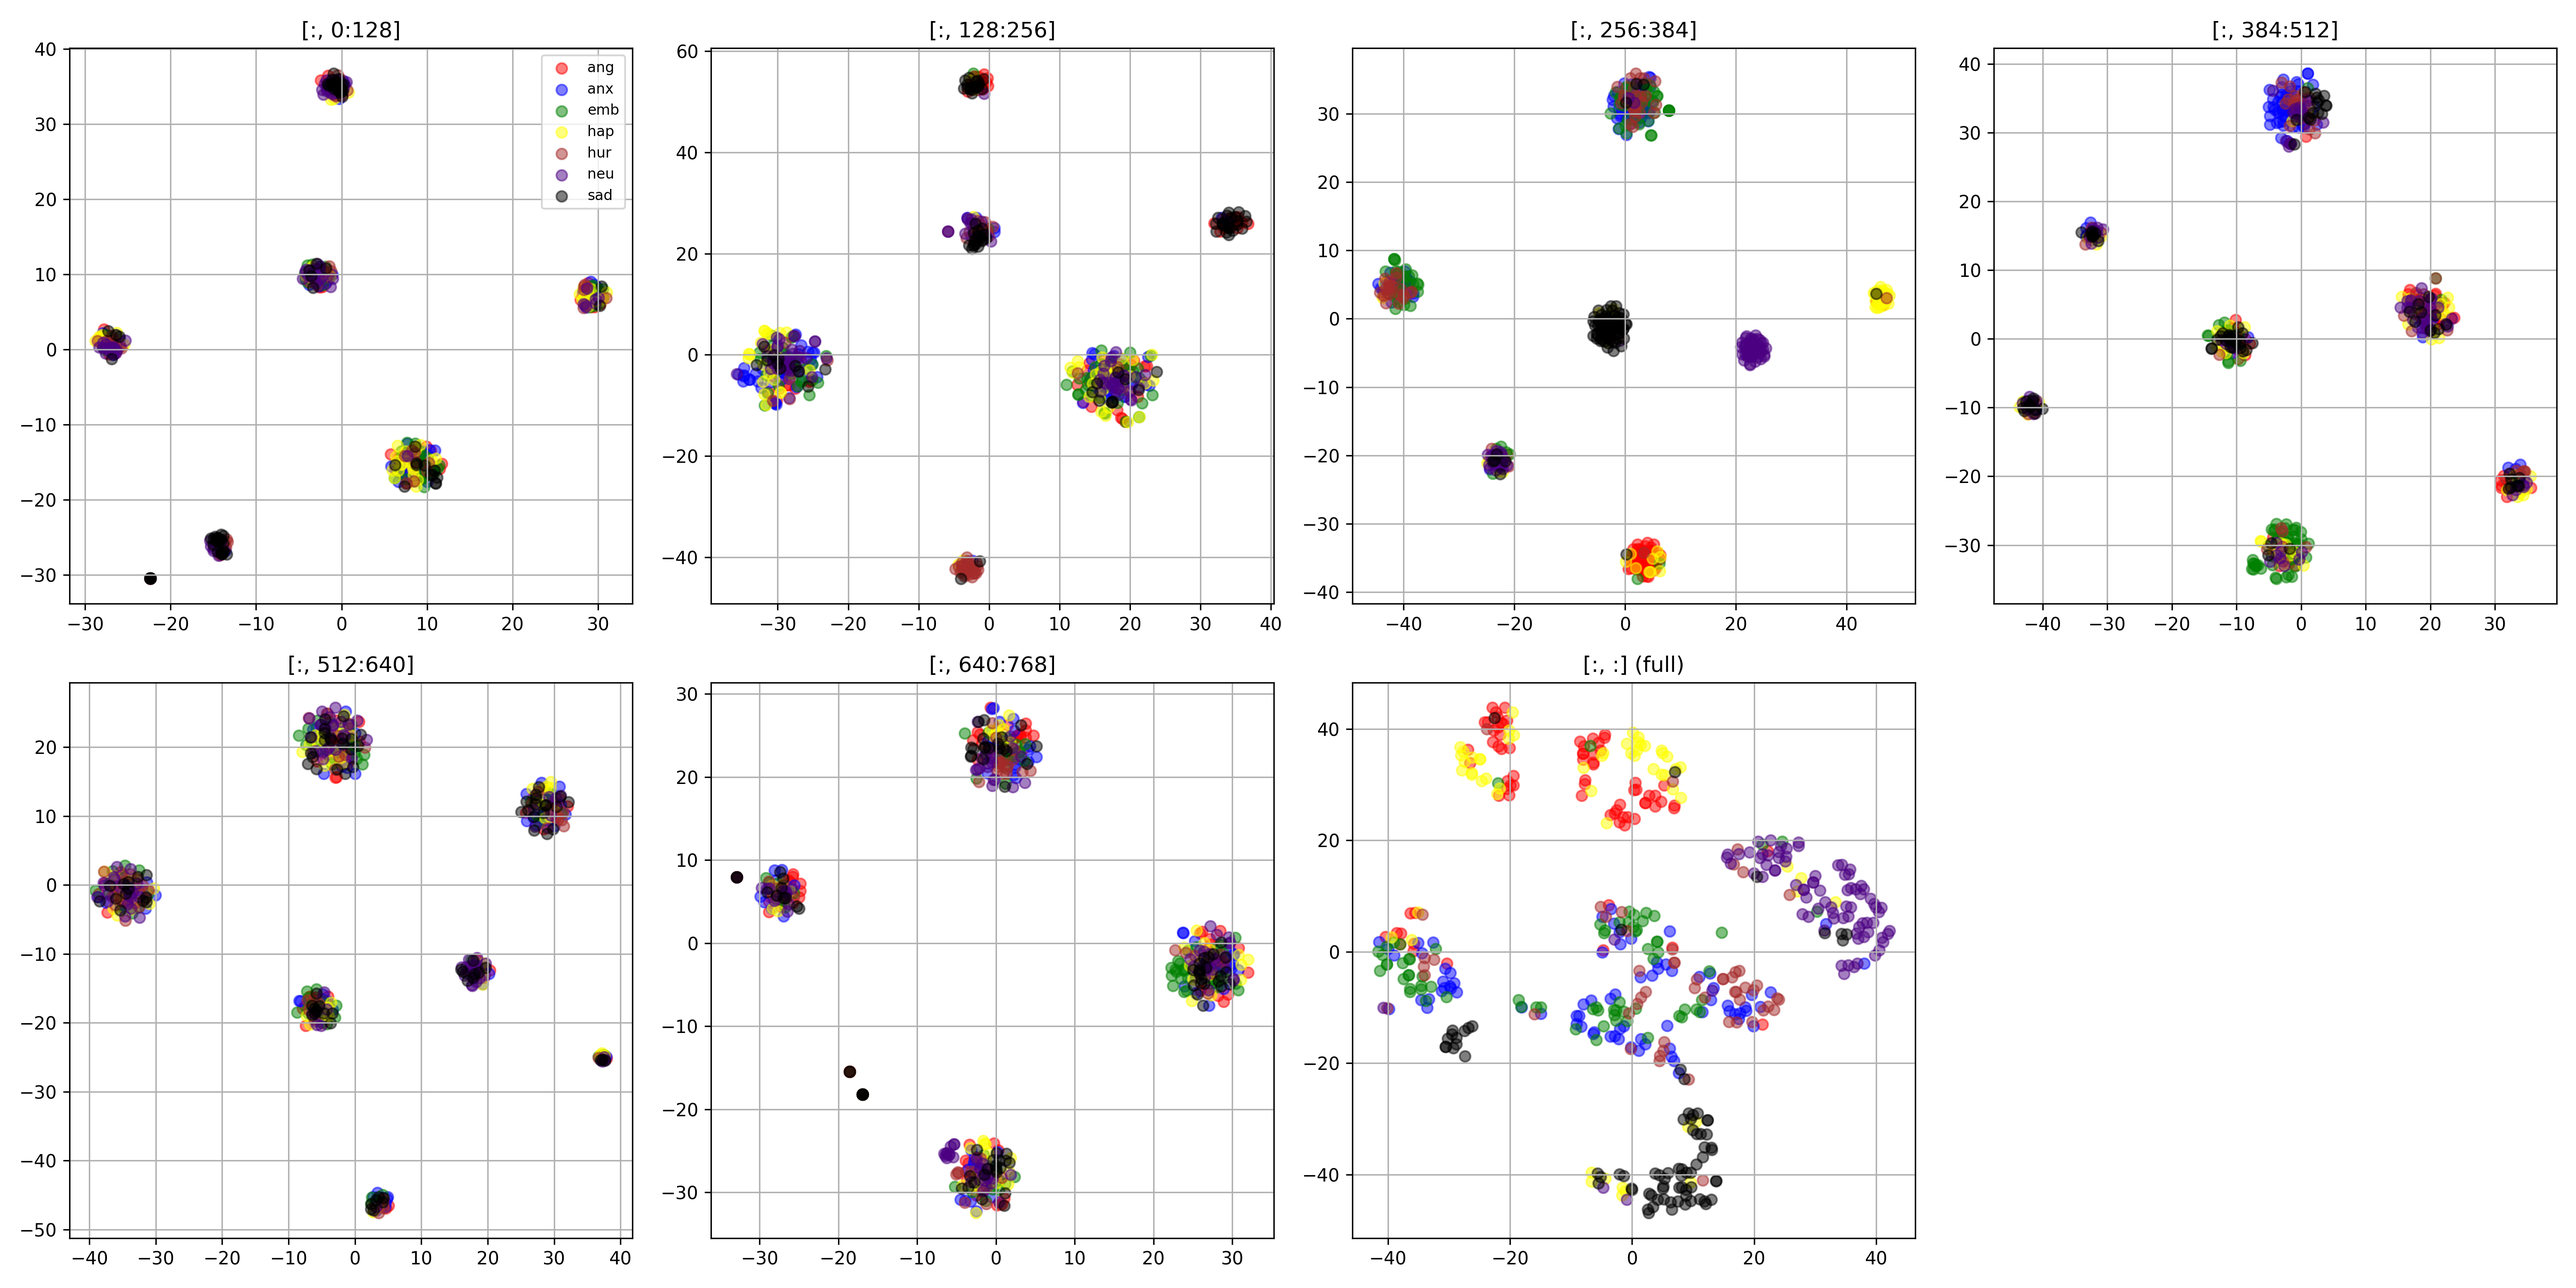
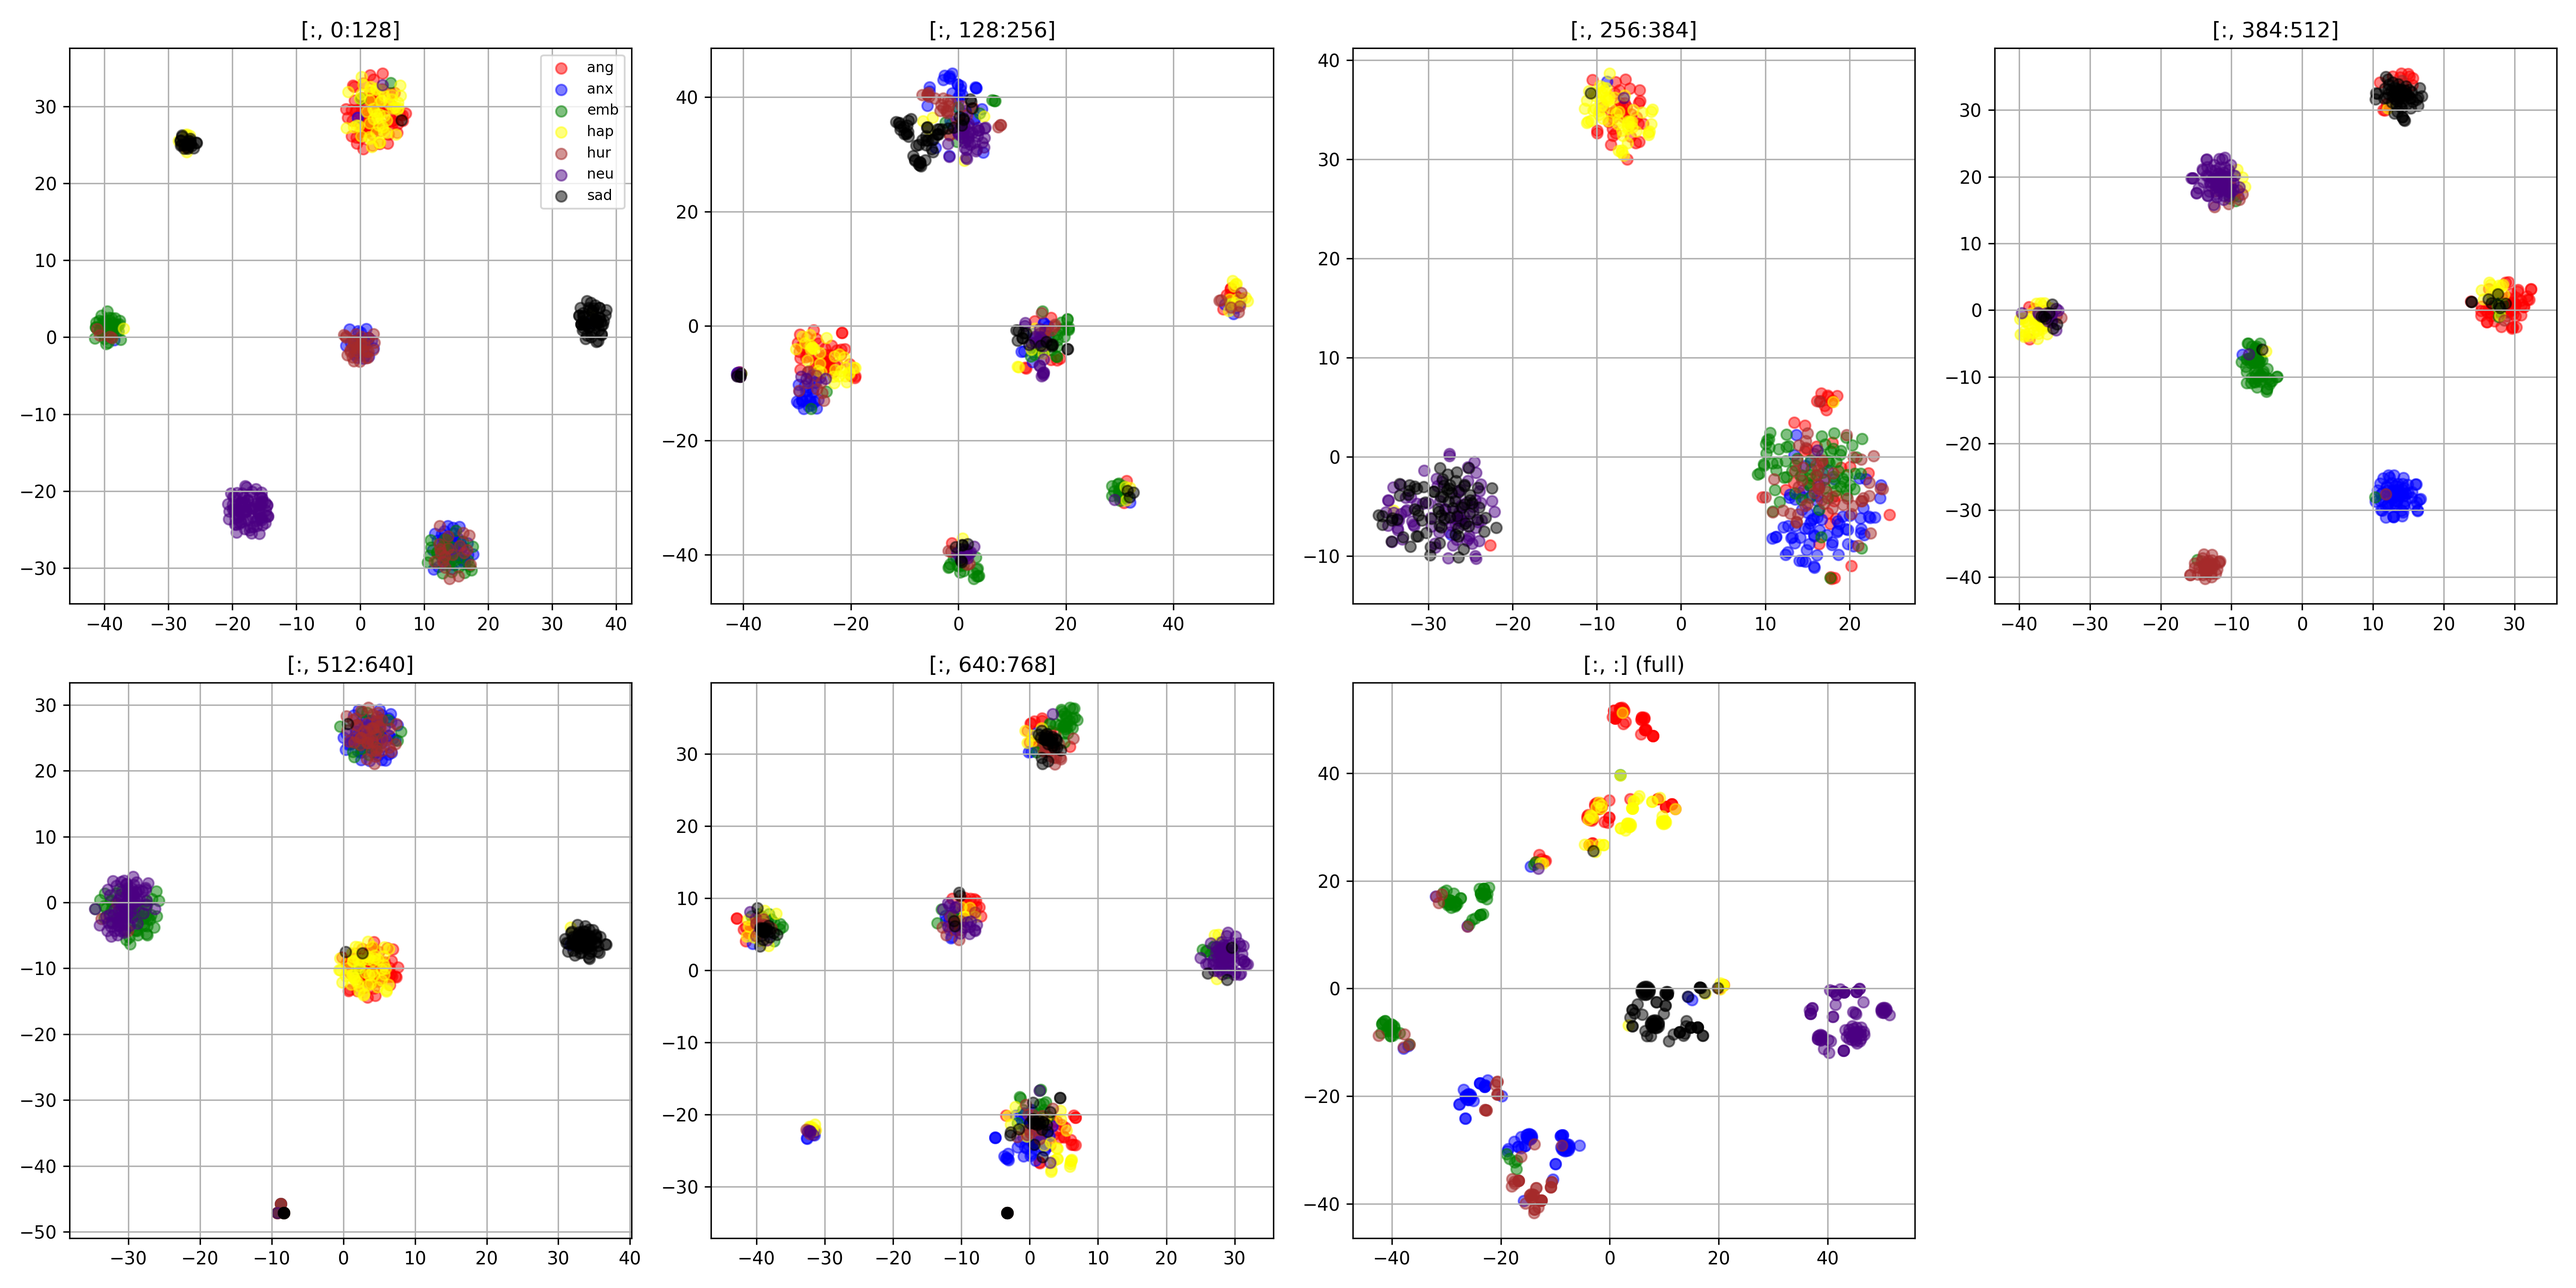
change classifier loss beta 0.2->0.5

diff --git a/model/loss.py b/model/loss.py
@@ -191,7 +191,7 @@ class FastSpeech2Loss(nn.Module):
             anchor, positive, negative = create_triplet_samples(style_ref_emb, emotions)
 
             if anchor is not None:
-                classifier_loss += self.triplet_margin_loss_fn(anchor, positive, negative) * 0.2
+                classifier_loss += self.triplet_margin_loss_fn(anchor, positive, negative) * 0.5
 
 
                                 
